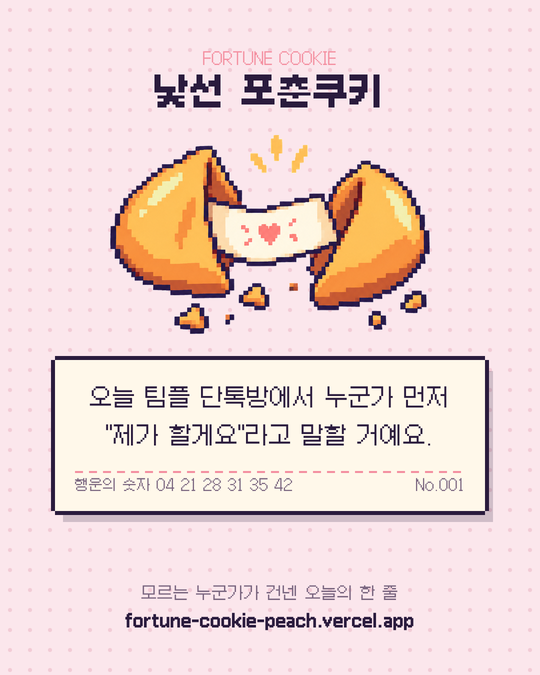
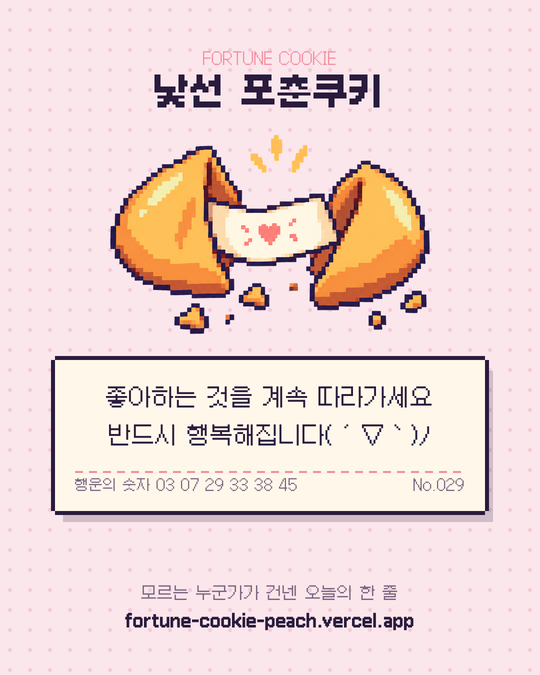
README 공유 카드: 첫 번째 카드를 실제 참여자 카드로 교체, 표 너비에 맞춰 꽉 차게
Claude-Session: https://claude.ai/code/session_019H48sgWEPCeJ89SP3p48pL

Changed region(s): [[0.1481, 0.56, 0.8593, 0.7467]]

diff --git a/README.md b/README.md
@@ -90,11 +90,11 @@
 | **공유 카드** | 받은 쪽지를 픽셀 카드 이미지(1080×1350)로 만들어 카카오톡·인스타그램 등으로 보내요. 공유 창이 없으면 문구를 복사해요. |
 | **링크 미리보기** | 링크를 공유하면 OG 이미지 카드가 표시돼요. |
 
-<table align="center">
+<table width="100%">
   <tr>
-    <td align="center"><img src="docs/share-card.png" width="220" alt="공유 카드 예시"></td>
-    <td align="center"><img src="docs/share-card-2.png" width="220" alt="실제 참여자가 받은 공유 카드: 힘들 땐 하늘을 봐"></td>
-    <td align="center"><img src="docs/share-card-3.png" width="220" alt="실제 참여자가 받은 공유 카드: 우울할 땐 우사기 하입보이 50초부터 들어보세요"></td>
+    <td width="33%" align="center"><img src="docs/share-card.png" width="100%" alt="실제 참여자가 받은 공유 카드: 좋아하는 것을 계속 따라가세요 반드시 행복해집니다"></td>
+    <td width="33%" align="center"><img src="docs/share-card-2.png" width="100%" alt="실제 참여자가 받은 공유 카드: 힘들 땐 하늘을 봐"></td>
+    <td width="33%" align="center"><img src="docs/share-card-3.png" width="100%" alt="실제 참여자가 받은 공유 카드: 우울할 땐 우사기 하입보이 50초부터 들어보세요"></td>
   </tr>
 </table>
 
